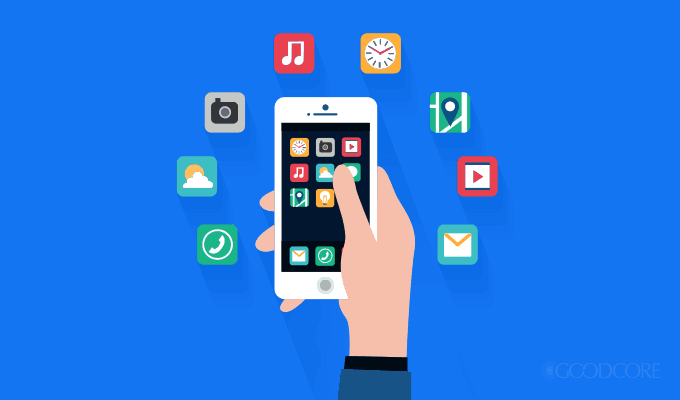
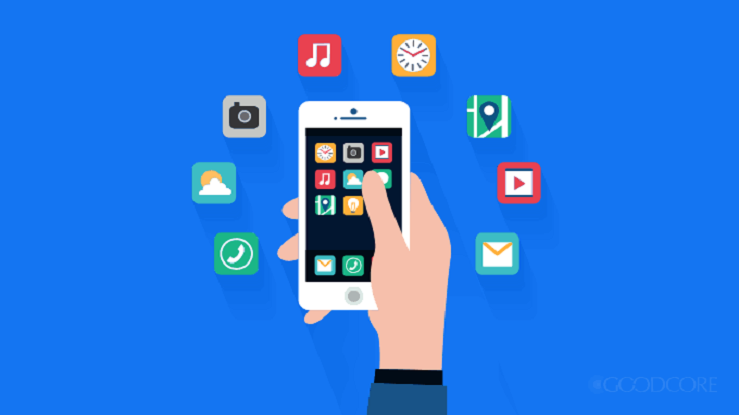
resized index slide show images and reordered index div

diff --git a/index.html b/index.html
@@ -15,7 +15,7 @@
     <div id="all">
         <div id="heading">
             <img src="icons/AikSoft_Logo_Transparent2.PNG" alt="aiksoft_logo" height="75" id="aiksoftLogo" />
-            <h1 id="compName">Aikien Softwares Incorporated (a.k.a AikSoft Inc.)</h1>
+            <h1 id="compName">Aikien Softwares Inc. (a.k.a AikSoft Inc.)</h1>
             <h3 id="moto">...easier with software.</h3>
             <div id="navBarWrapper" onclick="toggleNavbarVisibility()">
                 <p>
@@ -73,7 +73,7 @@
                         <div class="mySlides" id="firstPic">
                             <div class="numbertext">1/5</div>
                             <img src="icons/appDev2.jpeg" alt="FT Emoji">
-                            <div class="text">(Desktop software and utility tools)</div>
+                            <div class="text">Desktop software and utility tools</div>
                         </div>
         
                         <div class="mySlides">
@@ -85,7 +85,7 @@
                         <div class="mySlides">
                             <div class="numbertext">3/5</div>
                             <img src="icons/webDesign1.jpeg" alt="FT Emoji">
-                            <div class="text">Fullstack responsive and robust web design</div>
+                            <div class="text">Full-stack robust and responsive web design</div>
                         </div>
         
                         <div class="mySlides">
@@ -96,8 +96,8 @@
         
                         <div class="mySlides">
                             <div class="numbertext">5/5</div>
-                            <img src="icons/dbms.jpeg" alt="FT Emoji">
-                            <div class="text">Database management systems</div>
+                            <img src="icons/dbms2.png" alt="FT Emoji">
+                            <div class="text">Database management application</div>
                         </div>
         
                         <input type="button" class="prev" value="&#10094;" onclick="nextSlide(-1)">
@@ -139,14 +139,6 @@
                         </div>
                     </div>
 
-                    <div class="homeDiv" id="ftInfoDiv">
-                        <p id="product_img"><img src="icons/FancyText_screenshot.PNG" alt="FT Screenshot" class="photo"
-                                id="ftPhoto"></p>
-                        <p id="ftdesc">FancyText (v.1.0) - A free, simple and easy-to-use desktop application designed
-                            to create pictures containing
-                            fancy text graphics, pictures and simple shapes. <a href="ftHome.html">See more..</a></p>
-                    </div>
-
                     <div id="points">
                         <div id="welcome4" class="homeDiv">
                             <p id="welcomePara4">
@@ -184,6 +176,14 @@
                                 <img src="icons/php_logo.png" alt="PHP Logo" width="75">
                             </div>
                         </div>
+                    </div>
+
+                    <div class="homeDiv" id="ftInfoDiv">
+                        <p id="product_img"><img src="icons/FancyText_screenshot.PNG" alt="FT Screenshot" class="photo"
+                                id="ftPhoto"></p>
+                        <p id="ftdesc">FancyText (v.1.0) - A free, simple and easy-to-use desktop application designed
+                            to create pictures containing
+                            fancy text graphics, pictures and simple shapes. <a href="ftHome.html">See more..</a></p>
                     </div>
 
                     <div id="welcome6" class="homeDiv">

diff --git a/aiksoft_stylesheet.css b/aiksoft_stylesheet.css
@@ -272,6 +272,7 @@ a img{
 
 img{
     max-width: 100%;
+    padding: 0;
 }
 
 .servImg{
@@ -449,11 +450,14 @@ legend{
 /*------------------------------------------------------------------------------------------------------------------------*/
 
 #samplesWrapper{
-    width: 550px;
+    max-width: 739px;
     height: fit-content;
     position: relative;
     margin: auto;
     margin-top: 15px;
+    /*border: 3px solid rgb(143, 89, 9);*/
+    padding: 0;
+    margin-bottom: 10px;
     /*min-width: 400px;*/
 }
 
@@ -463,6 +467,7 @@ legend{
     top: 0;
     opacity: 0;
     transition: opacity 3.0s ease;
+    padding: 0;
 }
 
 .showSlide{
@@ -533,7 +538,6 @@ legend{
 .active, .dot:hover{
     background-color: #464242;
 }
-
 
 /*------------------------------------------------------------------------------------------------------------------------*/
 
